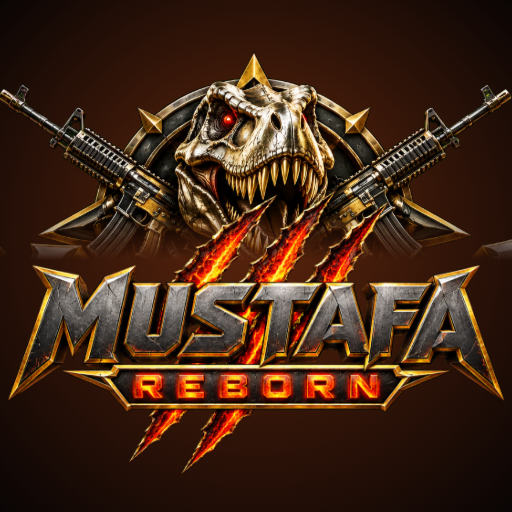
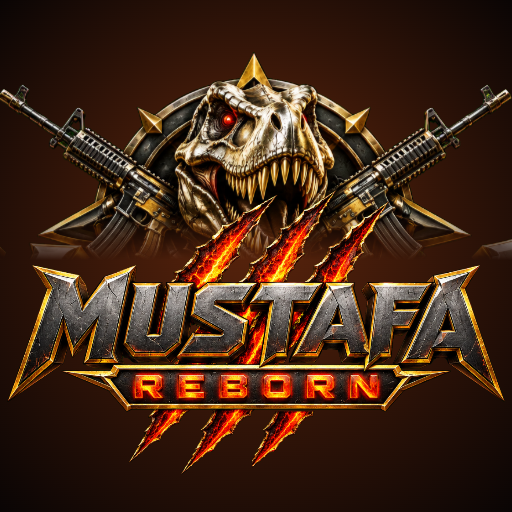
Full-screen cover, keyboard fix, per-stage floors, unique mission music
- Cover fills the whole screen (trims the bottom, never the T-rex).
- Keyboard works in ROBOPLAY and online matches: leaving the lobby hands
  focus back to the game instead of a hidden lobby button.
- Hero select: fighters fit their cards (raised fists no longer cut
  off) and cards ease up with a glow and a fist-raise on hover.
- Logo: the third claw slash now comes out under the banner too.
- Every mission has its own theme (new Ambush, Storm, Prison and Rift
  scores); the title keeps its own music.
- Walkable floor per stage: no walking on walls, ledges or water edges.

diff --git a/js/ui.js b/js/ui.js
@@ -149,11 +149,19 @@ function drawSelect(c) {
   c.strokeStyle = 'rgba(212,175,55,0.6)'; c.lineWidth = 1.5; line(c, W / 2 - 330, 88, W / 2 - 40, 88); line(c, W / 2 + 40, 88, W / 2 + 330, 88);
   txt(c, '◆', W / 2, 94, { font: '700 14px serif', align: 'center', fill: '#d4af37' });
   G.rects = [];
+  // smooth focus animation: each card eases toward selected (1) or not (0)
+  G.selK = G.selK || HEROES.map(() => 0);
+  if (G.selLast !== G.selIdx) { G.selLast = G.selIdx; G.selPoseT = 0; }
+  G.selPoseT = (G.selPoseT || 0) + 1;
   HEROES.forEach((h, i) => {
-    const sel = G.selIdx === i, w = 262, hgt = 470, x = (W - BASE_W) / 2 + 70 + i * 292, y = 108 - (sel ? 10 : 0);
-    G.rects.push({ x, y, w, h: hgt, i });
+    const sel = G.selIdx === i;
+    G.selK[i] += ((sel ? 1 : 0) - G.selK[i]) * 0.14;
+    const k = G.selK[i], w = 262, hgt = 470, x = (W - BASE_W) / 2 + 70 + i * 292, y = 108 - 16 * k;
+    G.rects.push({ x, y: 108, w, h: hgt, i });
     c.save();
-    if (sel) { c.shadowColor = 'rgba(255,190,80,0.55)'; c.shadowBlur = 36; }
+    c.translate(x + w / 2, y + hgt / 2); c.scale(1 + 0.04 * k, 1 + 0.04 * k); c.translate(-(x + w / 2), -(y + hgt / 2));
+    c.save();
+    if (k > 0.05) { c.shadowColor = `rgba(255,190,80,${0.6 * k})`; c.shadowBlur = 40 * k; }
     rrect(c, x, y, w, hgt, 16);
     const cg = c.createLinearGradient(0, y, 0, y + hgt); cg.addColorStop(0, sel ? '#3a2212' : '#1d1214'); cg.addColorStop(1, '#0a0707');
     c.fillStyle = cg; c.fill();
@@ -166,14 +174,18 @@ function drawSelect(c) {
     const fy = y + hgt - 118;
     c.fillStyle = sel ? 'rgba(212,175,55,0.45)' : 'rgba(212,175,55,0.15)'; c.beginPath(); c.ellipse(x + w / 2, fy, 90, 15, 0, 0, TAU); c.fill();
     c.strokeStyle = 'rgba(212,175,55,0.6)'; c.lineWidth = 1.5; c.stroke();
-    const look = heroLook(i), state = sel ? (G.sceneT % 240 < 40 ? 'win' : 'idle') : 'idle';
-    c.save(); rrect(c, x, y, w, hgt, 16); c.clip();
-    const sd = SPRITE_DEFS[h.id];
+    const look = heroLook(i), sd = SPRITE_DEFS[h.id];
     if (G.royal && Save.d.premium) { c.save(); c.globalCompositeOperation = 'lighter'; glow(c, x + w / 2, fy - 160, 170, 'rgba(212,175,55,0.35)'); c.restore(); }
-    if (!(spritesReady(sd.a) && spritesReady(sd.b) && drawSprite(c, state === 'win' ? sd.b : sd.a, state === 'win' ? 7 : 0, x + w / 2, fy, 1, spriteScale(h.id) * 1.05, { sy: 1 + Math.sin(t * 0.08 + i) * 0.01 })))
-      drawFigure(c, look, poseFor(i, state, t, i === 0 ? { weapon: 'rifle' } : null), x + w / 2 - 6, fy, 1, 1.72 * (h.look.scale || 1), { t, weapon: i === 0 ? 'rifle' : null });
-    c.restore();
-    if (!sel) { c.fillStyle = 'rgba(5,3,4,0.45)'; rrect(c, x, y, w, hgt, 16); c.fill(); }
+    // the hero is drawn unclipped and sized to fit, so raised fists are never cut off;
+    // a freshly selected hero raises a fist, then eases back into the stance
+    const pt = sel ? G.selPoseT : 999, win = pt < 12 ? pt / 12 : pt < 60 ? 1 : pt < 76 ? 1 - (pt - 60) / 16 : 0;
+    const fit = (sheet, idx) => { const fr = window.ATLAS[sheet][idx]; return Math.min(spriteScale(h.id) * 1.05, (fy - y - 18) / fr.ay); };
+    const breathe = 1 + Math.sin(t * 0.08 + i) * 0.012, bob = Math.sin(t * 0.05 + i) * 2 * k;
+    if (spritesReady(sd.a) && spritesReady(sd.b)) {
+      if (win < 1) { c.save(); c.globalAlpha *= 1 - win; drawSprite(c, sd.a, 0, x + w / 2, fy + bob, 1, fit(sd.a, 0), { sy: breathe }); c.restore(); }
+      if (win > 0) { c.save(); c.globalAlpha *= win; drawSprite(c, sd.b, 7, x + w / 2, fy + bob, 1, fit(sd.b, 7), { sy: breathe }); c.restore(); }
+    } else drawFigure(c, look, poseFor(i, 'idle', t, i === 0 ? { weapon: 'rifle' } : null), x + w / 2 - 6, fy, 1, 1.72 * (h.look.scale || 1), { t, weapon: i === 0 ? 'rifle' : null });
+    if (k < 0.99) { c.fillStyle = `rgba(5,3,4,${0.45 * (1 - k)})`; rrect(c, x, y, w, hgt, 16); c.fill(); }
     c.lineWidth = sel ? 3 : 1.5; c.strokeStyle = sel ? goldGrad(c, y, y + hgt) : 'rgba(212,175,55,0.35)'; rrect(c, x, y, w, hgt, 16); c.stroke();
     txt(c, h.name, x + w / 2, y + hgt - 78, { font: '900 30px Cinzel, serif', align: 'center', fill: sel ? goldGrad(c, y + hgt - 102, y + hgt - 76) : '#e8dcc0', stroke: '#120800', sw: 5 });
     txt(c, h.title.toUpperCase(), x + w / 2, y + hgt - 57, { font: '700 13px Cinzel, serif', align: 'center', fill: '#bfae86' });
@@ -185,6 +197,7 @@ function drawSelect(c) {
         c.save(); c.translate(x + 120 + d * 22, ry); c.rotate(Math.PI / 4); c.fillRect(-4, -4, 8, 8); c.restore();
       }
     });
+    c.restore();
   });
   const h = HEROES[G.selIdx];
   txt(c, h.desc, W / 2, 624, { font: '600 20px Cinzel, serif', align: 'center', fill: '#efe3c8' });
@@ -418,26 +431,11 @@ function drawEnding(c) {
 }
 
 /* ---------- Cover title (painted poster) ---------- */
-let COVER_BG = null;
+// The cover fills the whole screen. On wider screens the bottom (car wheels) is trimmed, never the top (the T-rex).
 function coverImage(c, t) {
-  const im = SPR.cover;
-  if (!COVER_BG || COVER_BG.width !== W) {   // blurred backdrop for the spare space around the painting
-    COVER_BG = document.createElement('canvas'); COVER_BG.width = W; COVER_BG.height = H;
-    const b = COVER_BG.getContext('2d'), z = Math.max(W / im.width, H / im.height) * 1.1;
-    b.filter = 'blur(18px) brightness(0.55)'; b.drawImage(im, (W - im.width * z) / 2, (H - im.height * z) / 2, im.width * z, im.height * z); b.filter = 'none';
-  }
-  c.drawImage(COVER_BG, 0, 0);
-  // the full painting, slightly smaller than the screen so the logo has sky above the heroes
-  const z = Math.min(W / im.width, H / im.height) * (0.9 + Math.sin(t * 0.004) * 0.008), w = im.width * z, h = im.height * z, x = (W - w) / 2, y = H - h;
-  c.drawImage(im, x, y, w, h);
-  // feather the painting's edges into the backdrop
-  c.save();
-  const top = c.createLinearGradient(0, y, 0, y + 60); top.addColorStop(0, 'rgba(12,6,8,0.9)'); top.addColorStop(1, 'rgba(12,6,8,0)'); c.fillStyle = top; c.fillRect(x, y, w, 60);
-  if (x > 1) {
-    const l = c.createLinearGradient(x, 0, x + 70, 0); l.addColorStop(0, 'rgba(12,6,8,0.9)'); l.addColorStop(1, 'rgba(12,6,8,0)'); c.fillStyle = l; c.fillRect(x, y, 70, h);
-    const r = c.createLinearGradient(x + w, 0, x + w - 70, 0); r.addColorStop(0, 'rgba(12,6,8,0.9)'); r.addColorStop(1, 'rgba(12,6,8,0)'); c.fillStyle = r; c.fillRect(x + w - 70, y, 70, h);
-  }
-  c.restore();
+  const im = SPR.cover, z = Math.max(W / im.width, H / im.height) * (1.02 + Math.sin(t * 0.004) * 0.012);
+  const w = im.width * z, h = im.height * z;
+  c.drawImage(im, (W - w) / 2, Math.min(0, (H - h) * 0.15), w, h);
 }
 function drawTitleCover(c) {
   const t = G.t;

diff --git a/js/music.js b/js/music.js
@@ -72,6 +72,25 @@ const SCORES = (() => { const _ = null, h = HOLD; return {
     kit: { k: 'K...K...K...K...', h: '..h...h...h...h.', s: '....S.......S...' },
     mels: [{ inst: 'lead', notes: [12, h, h, 14, h, h, 15, h, 17, h, h, h, 15, h, 14, h, 12, h, h, 10, h, h, 9, h, 10, h, h, h, _, _, _, _] },
       { inst: 'brass', lv: 3, notes: [24, h, h, h, h, h, h, h, 22, h, h, h, h, h, h, h, 19, h, h, h, h, h, h, h, 21, h, h, h, h, h, h, h] }] },
+  // ---- extra mission themes: every mission has its own ----
+  ambush: { bpm: 112, key: N('E'), bars: [['E', 1], ['F', 0], ['E', 1], ['D', 0], ['C', 0], ['F', 0], ['E', 1], ['E', 1]], pad: 0.8,
+    lv: { taiko: 0, ost: 1, mel: 2, choir: 3, rim: 1 }, taiko: 'T..T..T.T..T.tTt', rim: '..r..r....r..r..', choir: true,
+    ost: [0, 1, 0, 0, 1, 0, 0, 1, 0, 0, 3, 1, 0, 1, 0, _],
+    mels: [{ inst: 'flute', notes: [12, h, 13, h, 12, h, 10, h, 8, h, h, h, 7, h, h, h, 8, h, 10, h, 12, h, 13, h, 15, h, h, h, 13, h, 12, h] },
+      { inst: 'brass', lv: 3, oct: -12, notes: [12, h, h, h, h, h, h, h, 13, h, h, h, 12, h, h, h] }] },
+  storm: { bpm: 126, key: N('G'), bars: [['G', 1], ['Eb', 0], ['C', 1], ['D', 0], ['G', 1], ['Eb', 0], ['F', 0], ['D', 0]], pad: 0.9, bass: '8th',
+    lv: { ost: 0, rim: 0, kit: 1, mel: 1, choir: 3 }, ost: [0, 12, 7, 12, 0, 12, 7, 12, 0, 12, 8, 12, 0, 12, 7, 3], rim: '....r.......r.rr', choir: true,
+    kit: { k: 'K.....K...K.....', s: '....S.......S...', h: 'h.h.h.h.h.h.h.h.' },
+    mels: [{ inst: 'lead', notes: [15, h, h, 14, h, h, 12, h, 10, h, h, h, 7, h, h, h, 15, h, h, 17, h, h, 19, h, 18, h, h, h, h, h, _, _] }] },
+  prison: { bpm: 118, key: N('C#'), bars: [['C#', 1], ['A', 0], ['F#', 1], ['G#', 0]], pad: 0.6, bass: 'pulse',
+    lv: { metal: 0, arp: 0, kit: 1, mel: 2, choir: 3 }, metal: 'm.....m...m.....', choir: true,
+    arp: { pat: [0, _, 1, _, 2, _, 1, _, 0, _, 1, _, 3, _, 2, _], inst: 'sq', every: 1 }, kit: { k: 'K.......K..K....', h: '..h...h...h...hh' },
+    mels: [{ inst: 'brass', notes: [12, h, h, h, 11, h, h, h, 12, h, 15, h, 14, h, h, h, 12, h, h, h, 9, h, h, h, 11, h, h, h, h, h, h, h] }] },
+  rift: { bpm: 140, key: N('D'), bars: [['D', 0], ['E', 0], ['B', 1], ['G', 0], ['D', 0], ['E', 0], ['F#', 1], ['A', 0]], pad: 1,
+    lv: { arp: 0, choir: 0, taiko: 1, ost: 2, mel: 1 }, choir: true, taiko: 'T.tT..tTT.tT.ttt',
+    arp: { pat: [0, 2, 3, 4, 5, 4, 3, 2, 0, 2, 3, 4, 5, 4, 3, 1], inst: 'sq', every: 1 }, ost: [0, 12, 0, 12, 0, 12, 0, 12, 0, 12, 0, 12, 2, 12, 4, 12],
+    mels: [{ inst: 'lead', notes: [16, h, 18, h, 21, h, h, h, 23, h, 21, h, 18, h, h, h, 16, h, 18, h, 21, h, 23, h, 25, h, h, h, h, h, h, h] },
+      { inst: 'brass', lv: 3, notes: [16, h, h, h, h, h, h, h, 14, h, h, h, h, h, h, h, 11, h, h, h, h, h, h, h, 13, h, h, h, h, h, h, h] }] },
   boss: { bpm: 150, key: N('D'), bars: [['D', 1], ['Eb', 0], ['D', 1], ['Eb', 0], ['Bb', 0], ['A', 0], ['D', 1], ['A', 0]],
     ost: [0, 12, 0, 13, 0, 12, 0, 7, 0, 12, 0, 13, 0, 15, 13, 12], choir: true, taiko: 'T.tTT.t.T.tTTttt', rim: '..r...r...r...rr', kit: { k: 'K.......K.K.....' },
     mels: [{ inst: 'brass', notes: [12, h, 13, h, 12, h, h, h, 13, h, 15, h, 13, h, h, h, 10, h, 12, h, 13, h, 15, h, 16, h, h, h, h, h, h, h] }] },
@@ -87,7 +106,7 @@ const SCORES = (() => { const _ = null, h = HOLD; return {
 }; })();
 SCORES.stage = SCORES.sea;
 // themes whose layers follow the fight
-const ADAPTIVE = new Set(['sea', 'stage', 'stealth', 'chase', 'jungle', 'swamp', 'rock', 'village', 'fortress', 'lab']);
+const ADAPTIVE = new Set(['sea', 'stage', 'stealth', 'chase', 'jungle', 'swamp', 'rock', 'village', 'fortress', 'lab', 'ambush', 'storm', 'prison', 'rift']);
 
 const Music = {
   name: '', score: null, step: 0, next: 0, transpose: 0, bus: null, verb: null, level: 2, want: 2,

diff --git a/js/data.js b/js/data.js
@@ -239,7 +239,7 @@ const STAGES = [
     bark: { 0: ['nadia', 'Babies in cages... break those locks!'], 2: ['bablu', 'Do not hit the big one with the horns. It is on our side!'], 4: ['nadia', 'The pack alpha! It thinks we took its young!'] },
   },
   {
-    id: 'm5', chapter: 1, name: 'BLACK WATER', sub: 'An ambush in the glowing swamp', theme: 'swamp', look: 'dusk', weather: 'fog', water: true, transpose: 2, len: 4500, maxOn: 5, music: 'stealth',
+    id: 'm5', chapter: 1, name: 'BLACK WATER', sub: 'An ambush in the glowing swamp', theme: 'swamp', look: 'dusk', weather: 'fog', water: true, transpose: 2, len: 4500, maxOn: 5, music: 'ambush',
     obj: { type: 'survive', text: 'Survive the ambush until Bolt brings the boat' },
     brief: 'Following the poachers into the swamp was a trap, and the water glows green with leaked serum. Hold the line until Bolt arrives with the boat.',
     waves: [
@@ -276,7 +276,7 @@ const STAGES = [
     bark: { 0: ['rakib', 'My tools! My beautiful tools!'], 2: ['rakib', 'They are going for the car! Do not let them scratch it!'] },
   },
   {
-    id: 'm8', chapter: 2, name: 'SHADOW IN THE RAIN', sub: 'Saju strikes from the dark', theme: 'garage', look: 'night', weather: 'storm', transpose: 3, len: 3600, maxOn: 5, music: 'boss', after: 'abduction',
+    id: 'm8', chapter: 2, name: 'SHADOW IN THE RAIN', sub: 'Saju strikes from the dark', theme: 'garage', look: 'night', weather: 'storm', transpose: 3, len: 3600, maxOn: 5, music: 'storm', after: 'abduction',
     obj: { type: 'boss', text: 'Defeat Shadow Saju' },
     brief: 'The lights died. Shadow Saju, Kaiser’s assassin, is hunting us in our own home. Trust nothing in the dark.',
     waves: [
@@ -317,7 +317,7 @@ const STAGES = [
     bark: { 0: ['{ALLY}', 'Searchlights everywhere. Break the locks and keep moving!'], 2: ['{ALLY}', 'Cyber-raptors on the deck! Watch the lasers!'], 4: ['morgol', 'Every beast in this valley belongs to Kaiser. You too!'] },
   },
   {
-    id: 'm11', chapter: 3, name: 'PRISON BLOCK NINE', sub: 'Bring {CAPTIVE} home', theme: 'lab', look: 'alarm', transpose: -3, len: 5400, maxOn: 5, music: 'lab', captive: true,
+    id: 'm11', chapter: 3, name: 'PRISON BLOCK NINE', sub: 'Bring {CAPTIVE} home', theme: 'lab', look: 'alarm', transpose: -3, len: 5400, maxOn: 5, music: 'prison', captive: true,
     obj: { type: 'destroy', kind: 'core', text: 'Shut down the power cores and break {CAPTIVE} out' },
     brief: '{CAPTIVE} is locked in a stasis capsule in Prison Block Nine, being prepared for Kaiser’s cyborg program. Destroy the power cores, then smash the capsule. Nobody gets left behind.',
     waves: [
@@ -344,7 +344,7 @@ const STAGES = [
     bark: { 0: ['nadia', 'Alarm! The clock is running, Mustafa!'], 2: ['rakib', 'Those tanks are glass. Hit them hard!'], 3: ['kaiser', 'You are too late. The rift is already opening.'] },
   },
   {
-    id: 'm13', chapter: 4, name: 'THE TIME RIFT', sub: 'A doorway to 65 million years ago', theme: 'jungle', look: 'rift', weather: 'storm', transpose: -1, len: 5400, maxOn: 5, music: 'fortress',
+    id: 'm13', chapter: 4, name: 'THE TIME RIFT', sub: 'A doorway to 65 million years ago', theme: 'jungle', look: 'rift', weather: 'storm', transpose: -1, len: 5400, maxOn: 5, music: 'rift',
     obj: { type: 'destroy', kind: 'pylon', text: 'Destroy the rift pylons before the past breaks through' },
     brief: 'Kaiser fed the Chrono-Fang crystal into his machine and tore a hole in time above the Green Valley. Cyber-raptors and wild beasts are pouring out. Destroy the pylons holding the rift open.',
     waves: [

diff --git a/js/net.js b/js/net.js
@@ -98,7 +98,12 @@ const Net = {
     Input.locked = true; Input.clear();
     this.connect(); this.render();
   },
-  hideHub() { this.open = false; this.el.classList.add('hidden'); Input.locked = false; Input.clear(); },
+  hideHub() {
+    this.open = false; this.el.classList.add('hidden'); Input.locked = false; Input.clear();
+    // hand the keyboard back to the game: a focused lobby button would otherwise swallow every key
+    if (document.activeElement && this.el.contains(document.activeElement)) document.activeElement.blur();
+    const cv = document.getElementById('game'); if (cv) cv.focus({ preventScroll: true });
+  },
   closeHub() { if (this.room) this.send({ t: 'roomLeave' }); this.hideHub(); },
   toast(text) {
     const box = document.getElementById('toasts'); if (!box) return;
@@ -111,6 +116,7 @@ const Net = {
     this.el.addEventListener('click', e => this.onClick(e));
     this.el.addEventListener('change', e => this.onChange(e));
     this.el.addEventListener('keydown', e => {
+      if (!this.open) return;            // hub hidden: keys belong to the game
       e.stopPropagation();
       const id = e.target.id;
       if (e.key === 'Escape') { e.preventDefault(); this.closeHub(); }
@@ -159,7 +165,7 @@ const Net = {
     const s = this.social, reqCount = s.requests.length + s.teamInvites.length;
     const head = `<header>
         <button class="back" data-act="back" aria-label="Back">◀</button>
-        <div class="brand"><img src="assets/logo.png?v=1" alt="Mustafa Reborn"><span class="sub">ONLINE ARENA</span></div>
+        <div class="brand"><img src="assets/logo.png?v=2" alt="Mustafa Reborn"><span class="sub">ONLINE ARENA</span></div>
         <span class="status ${this.status}"><i></i>${statusTxt}</span>
         ${this.status === 'offline' ? '<button class="btn sm" data-act="reconnect">Retry</button>' : ''}
         <label class="chan"># <select id="chanSelect">${(this.channels.length ? this.channels : [{ name: this.channel || 'Global', count: 0 }]).map(c => `<option value="${esc(c.name)}" ${c.name === this.channel ? 'selected' : ''}>${esc(c.name)} (${c.count})</option>`).join('')}${this.channel && !this.channels.some(c => c.name === this.channel) ? `<option selected>${esc(this.channel)}</option>` : ''}</select></label>

diff --git a/index.html b/index.html
@@ -352,22 +352,22 @@
 <div id="online" class="modal hidden" role="dialog" aria-modal="true" aria-label="Online arena"><div class="hub"></div></div>
 <div id="toasts" aria-live="polite"></div>
 
-<script src="config.js?v=12"></script>
-<script src="js/engine.js?v=12"></script>
-<script src="js/music.js?v=12"></script>
-<script src="js/data.js?v=12"></script>
-<script src="assets/sprites/atlas.js?v=12"></script>
-<script src="js/sprites.js?v=12"></script>
-<script src="js/art.js?v=12"></script>
-<script src="js/bg.js?v=12"></script>
-<script src="js/ui.js?v=12"></script>
-<script src="js/royal.js?v=12"></script>
-<script src="js/arena.js?v=12"></script>
-<script src="js/roboplay.js?v=12"></script>
-<script src="js/net.js?v=12"></script>
-<script src="js/settings.js?v=12"></script>
-<script src="js/story.js?v=12"></script>
-<script src="js/touch.js?v=12"></script>
-<script src="js/game.js?v=12"></script>
+<script src="config.js?v=13"></script>
+<script src="js/engine.js?v=13"></script>
+<script src="js/music.js?v=13"></script>
+<script src="js/data.js?v=13"></script>
+<script src="assets/sprites/atlas.js?v=13"></script>
+<script src="js/sprites.js?v=13"></script>
+<script src="js/art.js?v=13"></script>
+<script src="js/bg.js?v=13"></script>
+<script src="js/ui.js?v=13"></script>
+<script src="js/royal.js?v=13"></script>
+<script src="js/arena.js?v=13"></script>
+<script src="js/roboplay.js?v=13"></script>
+<script src="js/net.js?v=13"></script>
+<script src="js/settings.js?v=13"></script>
+<script src="js/story.js?v=13"></script>
+<script src="js/touch.js?v=13"></script>
+<script src="js/game.js?v=13"></script>
 </body>
 </html>

diff --git a/js/bg.js b/js/bg.js
@@ -436,6 +436,13 @@ function swampMotes(c, cam, t) {
    waterfalls, mist, searchlights, smoke, birds. Weather and time of day
    (rain, storm, fog, embers, fireflies / night, dusk, alarm) come from the mission.
    ========================================================= */
+// The walkable floor in each painting (screen y of the feet), so nobody walks on walls, ledges or sky
+const FLOOR = { sea: [448, 630], village: [468, 700], jungle: [480, 696], fortress: [478, 704], swamp: [470, 702], garage: [452, 704], lab: [462, 704], road: [482, 702] };
+function setFloor(theme) {
+  const f = FLOOR[theme] || [482, 702];
+  BELT_TOP = f[0]; BELT_BOT = f[1];
+  for (const p of G.props) p.y = clamp(p.y, BELT_TOP + 8, BELT_BOT - 8);
+}
 // where the far scenery ends and the walkable floor begins (fraction of image height), per painting
 const BG_CUT = { sea: 0.49, village: 0.48, jungle: 0.54, fortress: 0.515, swamp: 0.5, garage: 0.5, lab: 0.52, road: 0.56 };
 const BG_FAR = 0.55;   // far layer moves at 55% of the camera speed

diff --git a/js/sprites.js b/js/sprites.js
@@ -34,7 +34,7 @@ const ITEM_IDX = { pizza: 0, hotdog: 1, meat: 2, apple: 3, gem: 4, gold: 5, pist
 
 function loadSprites() {
   { const im = new Image(); SPR.total++; im.onload = () => { SPR.port = im; SPR.loaded++; }; im.onerror = () => { SPR.total--; }; im.src = 'assets/portraits.jpg?v=1'; }
-  { const im = new Image(); SPR.total++; im.onload = () => { SPR.logo = im; SPR.loaded++; }; im.onerror = () => { SPR.total--; }; im.src = 'assets/logo.png?v=1'; }
+  { const im = new Image(); SPR.total++; im.onload = () => { SPR.logo = im; SPR.loaded++; }; im.onerror = () => { SPR.total--; }; im.src = 'assets/logo.png?v=2'; }
   const atlas = window.ATLAS || {};
   for (const name of Object.keys(atlas)) {
     const im = new Image(); SPR.total++;

diff --git a/js/arena.js b/js/arena.js
@@ -45,6 +45,8 @@ function startArena(msg) {
     return f;
   });
   G.enemies = []; G.items = []; G.props = []; G.projs = []; G.parts = []; G.texts = [];
+  setFloor(ARENAS[msg.stage % ARENAS.length].theme);
+  for (const f of G.players) f.y = clamp(f.y, BELT_TOP + 10, BELT_BOT - 10);
   G.stageIdx = msg.stage; G.camX = clamp((myFighter() || G.players[0]).x - W / 2, 0, ARENA_W - W);
   G.camLock = null; G.waveIdx = 0; G.queue = []; G.boss = null; G.drive = null;
   G.combo = 0; G.comboT = 0; G.focus = null; G.banner = { title: 'FIGHT!', sub: modeLabel(), t: 0, dur: 110, big: true };

diff --git a/js/engine.js b/js/engine.js
@@ -6,7 +6,8 @@
 // H is fixed; W stretches between 1280 (16:9) and 1600 (20:9) so wide phone screens are filled edge to edge
 let W = 1280;
 const H = 720, BASE_W = 1280;
-const HORIZON = 420, BELT_TOP = 482, BELT_BOT = 702;
+const HORIZON = 420;
+let BELT_TOP = 482, BELT_BOT = 702;   // the walkable floor band; set per stage by setFloor()
 const CS = 1.85;              // character scale: fighters ~300px tall like the arcade original
 const LOW_W = 427, LOW_H = 240; // arcade-style low-res buffer (CPS-1 is 384x224)
 const TAU = Math.PI * 2;

diff --git a/js/game.js b/js/game.js
@@ -925,6 +925,7 @@ function loadStage(i) {
   G.stageIdx = i;
   G.enemies = []; G.items = []; G.projs = []; G.parts = []; G.texts = [];
   G.props = st.props.map(a => makeProp(a[0], a[1], a[2], a[3]));
+  setFloor(st.theme);
   G.camX = 0; G.camLock = null; G.waveIdx = 0; G.queue = []; G.goT = 0; G.boss = null;
   G.combo = 0; G.comboT = 0; G.focus = null; G.stageTime = 0; G.banner = null; G.paused = false;
   G.hitstop = 0; G.slowmo = 0; G.flash = 0; G.shake = 0;
